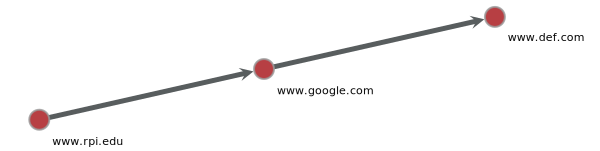
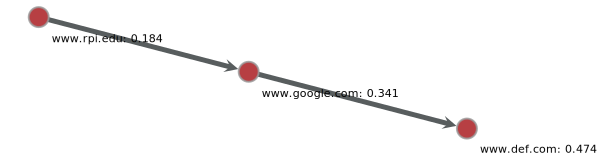
vert_map removed

diff --git a/API_control/code.py b/API_control/code.py
@@ -10,24 +10,25 @@ app = FastAPI()
 
 ######################################## UI/UX INTERFACE ########################################
 def get_graph_as_json():
-	return {"base_node": []}
+	json_graph = graph_manip.convert_graph_to_JSON(graph_manip.g)
+	return json_graph
 
 @app.get("/uiux/graph")
 async def return_graph():
 	return get_graph_as_json()
 
-@app.get("/uiux/subgraph")
-async def return_subgraph():
-	return get_graph_as_json().base_node
+# TODO: implement sub graphing
+@app.get("/uiux/subgraph/{url}")
+async def return_subgraph(url):
+	return get_graph_as_json()
 
 ####################################### RANKING INTERFACE #######################################
-def get_score(url):
-	return 0.0
-
 @app.get("/ranking/score/{url}")
 async def return_score(url):
-	return get_score(url)
-
+	if (url in graph_manip.vert_map) and (graph_manip.page_rank is not None):
+		return graph_manip.page_rank[graph_manip.vert_map[url]]
+	else:
+		return -1
 ###################################### CRAWLING INTERFACE #######################################
 
 # Node Payload schema
@@ -59,46 +60,67 @@ async def update_metadata(evaluation_payload):
 # Report metric is called by US.
 #################################################################################################
 
+# Updates page rank
+def update_pagerank():
+	# acquire mutex
+	graph_manip.update_mutex.acquire()
 
+	graph_manip.page_rank = graph_manip.pagerank(graph_manip.g)
+
+	# update the text that is to be shown in graph visualization
+	for node in graph_manip.g.vertices():
+		graph_manip.node_text[node] = f"{graph_manip.node_url[node]}: {graph_manip.page_rank[node]:.3f}"
+
+	# release mutex
+	graph_manip.update_mutex.release()
+
+	return
+
+#################################################################################################
 #testing and driver code. Will ~not~ be used in the final product.
 payload = '[{"url":"www.google.com","child_nodes":["www.abc.com","www.def.com"]},{"url":"www.rpi.edu","child_nodes":["www.google.com","www.abc.com"]}]'
 
 graph_manip.add_node(payload)
 
+update_pagerank()
+
 graph_manip.graph_tool.draw.graph_draw(
-				graph_manip.g, 
-				edge_pen_width=5,
-				vertex_text=graph_manip.node_url, 
-				vertex_aspect=1, 
-				vertex_text_position=1, 
-				vertex_text_color='black',
-				vertex_font_family='sans',
-				vertex_font_size=11,
-				vertex_color=None,
-				vertex_size=20,
-				output="mygraph.png"
-				)
+	graph_manip.g, 
+	edge_pen_width=5,
+	vertex_text=graph_manip.node_text, 
+	vertex_aspect=1, 
+	vertex_text_position=1, 
+	vertex_text_color='black',
+	vertex_font_family='sans',
+	vertex_font_size=11,
+	vertex_color=None,
+	vertex_size=20,
+	output="mygraph.png"
+)
 
 graph_manip.remove_node("www.abc.com")
 
+update_pagerank()
+
 graph_manip.graph_tool.draw.graph_draw(
-				graph_manip.g, 
-				edge_pen_width=5,
-				vertex_text=graph_manip.node_url, 
-				vertex_aspect=1, 
-				vertex_text_position=1, 
-				vertex_text_color='black',
-				vertex_font_family='sans',
-				vertex_font_size=11,
-				vertex_color=None,
-				vertex_size=20,
-				output="delgraph.png"
+	graph_manip.g, 
+	edge_pen_width=5,
+	vertex_text=graph_manip.node_text, 
+	vertex_aspect=1, 
+	vertex_text_position=1, 
+	vertex_text_color='black',
+	vertex_font_family='sans',
+	vertex_font_size=11,
+	vertex_color=None,
+	vertex_size=20,
+	output="delgraph.png"
 )
 
-pr = graph_manip.pagerank(graph_manip.g)
+if graph_manip.page_rank is not None:
+	print("\nPageRank scores:")
+	for v in graph_manip.g.vertices():
+		print(f"{graph_manip.node_url[v]}: {graph_manip.page_rank[v]}, {v}")
 
-print("\nPageRank scores:")
-for v in graph_manip.g.vertices():
-    print(f"{graph_manip.node_url[v]}: {pr[v]}")
+
 				
 print("Doing good")

diff --git a/API_control/graph_manip.py b/API_control/graph_manip.py
@@ -1,7 +1,10 @@
 #! /usr/bin/python3
 
-from graph_tool.all import Graph, graph_tool, pagerank
+from graph_tool.all import Graph, graph_tool, find_vertex, pagerank
+import threading
 import json
+
+update_mutex = threading.Lock()
 
 '''
 example payload:
@@ -21,7 +24,18 @@ example payload:
 #create Graph as global so it is accessible everywhere
 g = Graph(directed=True)
 vert_map = dict() #dict of ["URL": vertex_index]. This is so I can search the indices by url in less than O(N)
-node_url = g.new_vp("string") #attaches the URL to the vertices. This is useful for displaying the URL
+node_url = g.new_vp("string") # attaches the URL to the vertices. This is useful for displaying the URL
+page_rank = None
+node_text = g.new_vp("string")
+
+# returns the vertex
+def find_in_graph(url):
+    list_of_nodes = find_vertex(g, node_url, url)
+
+    if len(list_of_nodes) != 1:
+        return None
+    else:
+        return list_of_nodes[0]
 
 #adds specified node and connects it to children.
 #also adds edges between existing nodes and creates nodes that aren't there.
@@ -42,6 +56,7 @@ node_url = g.new_vp("string") #attaches the URL to the vertices. This is useful 
 ]
 
 '''
+
 def add_node(payload):
     payload_list = json.loads(payload)
 
@@ -59,35 +74,48 @@ def add_node(payload):
         url = item["url"]
         assert isinstance(url, str), f"ERR: graph_manip.add_node() expected `url` as string"
 
-        if url not in vert_map:
-            #add to map
-            new_node = g.add_vertex()
-            vert_map[url] = new_node
-            node_url[new_node] = url
+        # get node from url
+        parent_node = find_in_graph(url)
+
+        if parent_node == None:
+            #add to graph
+            parent_node = g.add_vertex()
+            node_url[parent_node] = url
 
         # Iterate over the children and add them to the graph
         for child in item["child_nodes"]:
             assert isinstance(child, str), f"ERR: graph_manip.add_node() expected strings in `child_nodes`" 
             #if child not in graph yet, create a node
-            if child not in vert_map:
-                new_node = g.add_vertex()
-                vert_map[child] = new_node
-                node_url[new_node] = child
+            child_node = find_in_graph(child)
+
+            if child_node == None:
+                child_node = g.add_vertex()
+                node_url[child_node] = child
 
             # Create the required edge
-            g.add_edge(vert_map[url], vert_map[child])
+            g.add_edge(parent_node, child_node)
 
 	# success
     return 0
 
 #removes specified node and all connecting edges
 def remove_node(url):
-    if url in vert_map:
-        g.remove_vertex(vert_map[url])
-        vert_map.pop(url)
+    node = find_in_graph(url)
+
+    if node != None:
+        g.remove_vertex(node)
         return 0 #success
+        
     return -1 #failure
     
+# converts the graph to json
+def convert_graph_to_JSON(g):
+    graph_data = {
+        "nodes": [{"id": int(v)} for v in g.vertices()],
+        "edges": [{"source": int(e.source()), "target": int(e.target())} for e in g.edges()]
+    }
+
+    return graph_data
     
 #testing and driver code. Will ~not~ be used in the final product.
 if __name__ == '__main__':
